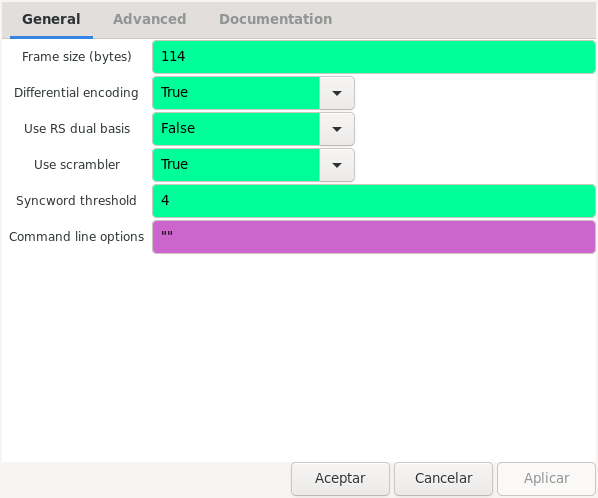
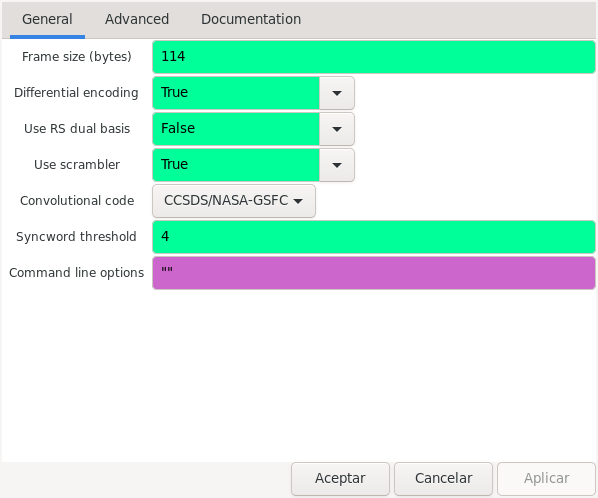
Add NASA-DSN convention to CCSDS concatenated deframer

Changed region(s): [[0.0, 0.3614, 1.0, 0.6024], [0.1806, 0.0301, 0.5719, 0.0602], [0.0301, 0.0301, 0.1505, 0.0904]]

diff --git a/python/core/gr_satellites_flowgraph.py b/python/core/gr_satellites_flowgraph.py
@@ -280,6 +280,10 @@ class gr_satellites_flowgraph(gr.hier_block2):
         'CCSDS Concatenated dual' : set_options(deframers.ccsds_concatenated_deframer, dual_basis = True),
         'CCSDS Concatenated differential' : set_options(deframers.ccsds_concatenated_deframer, differential = True),
         'CCSDS Concatenated dual differential' : set_options(deframers.ccsds_concatenated_deframer, differential = True, dual_basis = True),
+        'NASA-DSN Concatenated' : set_options(deframers.ccsds_concatenated_deframer, nasa_dsn = True),
+        'NASA-DSN Concatenated dual' : set_options(deframers.ccsds_concatenated_deframer, dual_basis = True, nasa_dsn = True),
+        'NASA-DSN Concatenated differential' : set_options(deframers.ccsds_concatenated_deframer, differential = True, nasa_dsn = True),
+        'NASA-DSN Concatenated dual differential' : set_options(deframers.ccsds_concatenated_deframer, differential = True, dual_basis = True, nasa_dsn = True),
         'CCSDS Reed-Solomon no-scrambler' : set_options(deframers.ccsds_rs_deframer, use_scrambler = False),
         'CCSDS Reed-Solomon dual no-scrambler' : set_options(deframers.ccsds_rs_deframer, dual_basis = True, use_scrambler = False),
         'CCSDS Reed-Solomon differential no-scrambler' : set_options(deframers.ccsds_rs_deframer, differential = True, use_scrambler = False),
@@ -288,6 +292,10 @@ class gr_satellites_flowgraph(gr.hier_block2):
         'CCSDS Concatenated dual no-scrambler' : set_options(deframers.ccsds_concatenated_deframer, dual_basis = True, use_scrambler = False),
         'CCSDS Concatenated differential no-scrambler' : set_options(deframers.ccsds_concatenated_deframer, differential = True, use_scrambler = False),
         'CCSDS Concatenated dual differential no-scrambler' : set_options(deframers.ccsds_concatenated_deframer, differential = True, dual_basis = True, use_scrambler = False),
+        'NASA-DSN Concatenated no-scrambler' : set_options(deframers.ccsds_concatenated_deframer, use_scrambler = False, nasa_dsn = True),
+        'NASA-DSN Concatenated dual no-scrambler' : set_options(deframers.ccsds_concatenated_deframer, dual_basis = True, use_scrambler = False, nasa_dsn = True),
+        'NASA-DSN Concatenated differential no-scrambler' : set_options(deframers.ccsds_concatenated_deframer, differential = True, use_scrambler = False, nasa_dsn = True),
+        'NASA-DSN Concatenated dual differential no-scrambler' : set_options(deframers.ccsds_concatenated_deframer, differential = True, dual_basis = True, use_scrambler = False, nasa_dsn = True),
         'LilacSat-1' : deframers.lilacsat_1_deframer,
         'AAUSAT-4' : deframers.aausat4_deframer,
         'NGHam' : set_options(deframers.ngham_deframer, decode_rs = True),

diff --git a/python/satyaml/satyaml.py b/python/satyaml/satyaml.py
@@ -29,11 +29,16 @@ class SatYAML:
                 'CCSDS Reed-Solomon', 'CCSDS Reed-Solomon dual', 'CCSDS Reed-Solomon differential',\
                 'CCSDS Reed-Solomon no-scrambler', 'CCSDS Reed-Solomon dual no-scrambler',\
                 'CCSDS Reed-Solomon differential no-scrambler',\
-                'CCSDS Reed-Solomon dual differential', 'CCSDS Concatenated', 'CCSDS Concatenated dual',\
+                'CCSDS Reed-Solomon dual differential', \
+                'CCSDS Concatenated', 'CCSDS Concatenated dual',\
+                'NASA-DSN Concatenated', 'NASA-DSN Concatenated dual',\
                 'CCSDS Reed-Solomon dual differential no-scrambler',\
                 'CCSDS Concatenated no-scrambler', 'CCSDS Concatenated dual no-scrambler',\
                 'CCSDS Concatenated differential', 'CCSDS Concatenated dual differential',\
                 'CCSDS Concatenated differential no-scrambler', 'CCSDS Concatenated dual differential no-scrambler',\
+                'NASA-DSN Concatenated no-scrambler', 'NASA-DSN Concatenated dual no-scrambler',\
+                'NASA-DSN Concatenated differential', 'NASA-DSN Concatenated dual differential',\
+                'NASA-DSN Concatenated differential no-scrambler', 'NASA-DSN Concatenated dual differential no-scrambler',\
                 'LilacSat-1', 'AAUSAT-4', 'NGHam', 'NGHam no Reed Solomon', 'SMOG-P RA',\
                 'SMOG-P Signalling', 'OPS-SAT', 'U482C', 'UA01']
     transports = ['KISS', 'KISS no control byte', 'KISS KS-1Q']

diff --git a/python/components/deframers/ccsds_concatenated_deframer.py b/python/components/deframers/ccsds_concatenated_deframer.py
@@ -26,11 +26,13 @@ class ccsds_concatenated_deframer(gr.hier_block2, options_block):
         differential: whether to use differential coding (bool)
         dual_basis: use dual basis instead of conventional (bool)
         use_scrambler: use CCSDS synchronous scrambler (bool)
+        nasa_dsn: use NASA-DSN instead of CCSDS/NASA-GSFC convolutional code (bool)
         syncword_threshold: number of bit errors allowed in syncword (int)
         options: Options from argparse
     """
     def __init__(self, frame_size = 223, differential = False, dual_basis = False,
-                     use_scrambler = True, syncword_threshold = None, options = None):
+                     use_scrambler = True, nasa_dsn = False,
+                     syncword_threshold = None, options = None):
         gr.hier_block2.__init__(self, "ccsds_concatenated_deframer",
             gr.io_signature(1, 1, gr.sizeof_float),
             gr.io_signature(0, 0, 0))
@@ -39,8 +41,8 @@ class ccsds_concatenated_deframer(gr.hier_block2, options_block):
         self.message_port_register_hier_out('out')
 
         self.delay1 =  blocks.delay(gr.sizeof_float, 1)
-        self.viterbi0 = ccsds_viterbi()
-        self.viterbi1 = ccsds_viterbi()
+        self.viterbi0 = ccsds_viterbi(nasa_dsn = nasa_dsn)
+        self.viterbi1 = ccsds_viterbi(nasa_dsn = nasa_dsn)
         self.char2float0 = blocks.char_to_float(1, 1)
         self.char2float1 = blocks.char_to_float(1, 1)
         self.addconst0 = blocks.add_const_ff(-0.5)

diff --git a/python/hier/ccsds_viterbi.py b/python/hier/ccsds_viterbi.py
@@ -19,7 +19,7 @@ import signal
 
 
 class ccsds_viterbi(gr.hier_block2):
-    def __init__(self):
+    def __init__(self, nasa_dsn = False):
         gr.hier_block2.__init__(
             self, "CCSDS/NASA-GSFC Viterbi decoder",
                 gr.io_signature(1, 1, gr.sizeof_float*1),
@@ -29,7 +29,8 @@ class ccsds_viterbi(gr.hier_block2):
         ##################################################
         # Variables
         ##################################################
-        self.dec_cc = dec_cc = fec.cc_decoder.make(80,7, 2, [79, -109], 0, -1, fec.CC_STREAMING, False)
+        polys = [-109, 79] if nasa_dsn else [79, -109]
+        self.dec_cc = dec_cc = fec.cc_decoder.make(80,7, 2, polys, 0, -1, fec.CC_STREAMING, False)
 
         ##################################################
         # Blocks

diff --git a/docs/source/satyaml.rst b/docs/source/satyaml.rst
@@ -178,6 +178,30 @@ The framings allowed in the ``framing`` field are the following:
 * ``CCSDS Concatenated dual differential no-scrambler``, CCSDS Concatenated TM codewords with
   differential encoding, dual RS basis and scrambler disabled (see :ref:`CCSDS deframers`)
 
+* ``NASA-DSN Concatenated``, CCSDS Concatenated TM codewords with conventional RS
+  basis and NASA-DSN convolutional code convention (see :ref:`CCSDS deframers`)
+
+* ``NASA-DSN Concatenated dual``, CCSDS concatenated TM codewords with dual RS
+  basis and NASA-DSN convolutional code convention (see :ref:`CCSDS deframers`)
+
+* ``NASA-DSN Concatenated differential``, CCSDS Concatenated TM codewords with
+  differential encoding, conventional RS basis and NASA-DSN convolutional code convention (see :ref:`CCSDS deframers`)
+
+* ``NASA-DSN Concatenated dual differential``, CCSDS Concatenated TM codewords with
+  differential encoding, dual RS basis and NASA-DSN convolutional code convention (see :ref:`CCSDS deframers`)
+
+* ``NASA-DSN Concatenated no-scrambler``, CCSDS Concatenated TM codewords with conventional RS
+  basis, scrambler disabled and NASA-DSN convolutional code convention (see :ref:`CCSDS deframers`)
+
+* ``NASA-DSN Concatenated dual no-scrambler``, CCSDS concatenated TM codewords with dual RS
+  basis, scrambler disabled and NASA-DSN convolutional code convention (see :ref:`CCSDS deframers`)
+
+* ``NASA-DSN Concatenated differential no-scrambler``, CCSDS Concatenated TM codewords with
+  differential encoding, conventional RS basis, scrambler disabled and NASA-DSN convolutional code convention (see :ref:`CCSDS deframers`)
+
+* ``NASA-DSN Concatenated dual differential no-scrambler``, CCSDS Concatenated TM codewords with
+  differential encoding, dual RS basis, scrambler disabled and NASA-DSN convolutional code convention (see :ref:`CCSDS deframers`)
+  
 * ``3CAT-1``, custom framing used by 3CAT-1. This uses a CC1101 chip with PN9
   scrambler and a (255,223) Reed-Solomon code for the payload
 

diff --git a/docs/source/components.rst b/docs/source/components.rst
@@ -402,7 +402,8 @@ Message Debug block.
 
 The figure below shows the options used by the CCSDS Concatenated
 deframer. The CCSDS Reed-Solomon deframer block allows exactly the same options,
-since none of the options refer to the convolutional inner code.
+except for the *Convolutional code* option,
+since all the other options refer to the convolutional inner code.
 
 The *Frame size* option indicates the size of the frame in bytes (after
 Reed-Solomon decoding). The *Differential encoding* option enables differential
@@ -410,6 +411,8 @@ decoding, which is often used to solve the BPSK 180º phase ambiguity. The
 *Use RS dual basis* option enables the usage of the dual basis definition for the Reed-Solmon
 code. The *Use scrambler* option enables or disables the use of the CCSDS synchronous
 descrambler. Most satellites using CCSDS frames use scrambling.
+The *Convolutional code* can be used to toggle between the CCSDS/NASA-GSFC
+(most usual and default) and NASA-DSN conventions for the convolutional code.
 The *Syncword threshold* option can be used to choose the number of bit
 errors that are allowed in the detection of the syncword.
     

diff --git a/CHANGELOG.md b/CHANGELOG.md
@@ -11,6 +11,7 @@ and this project adheres to [Semantic Versioning](https://semver.org/spec/v2.0.0
 - Audio source in gr_satellites
 - SatYAML file for AmicalSat
 - SatYAML file for UPMSat 2
+- Support for NASA-DSN convention in CCSDS concatenated frames
 
 ## Changed
 - Enable full printing of construct strings
